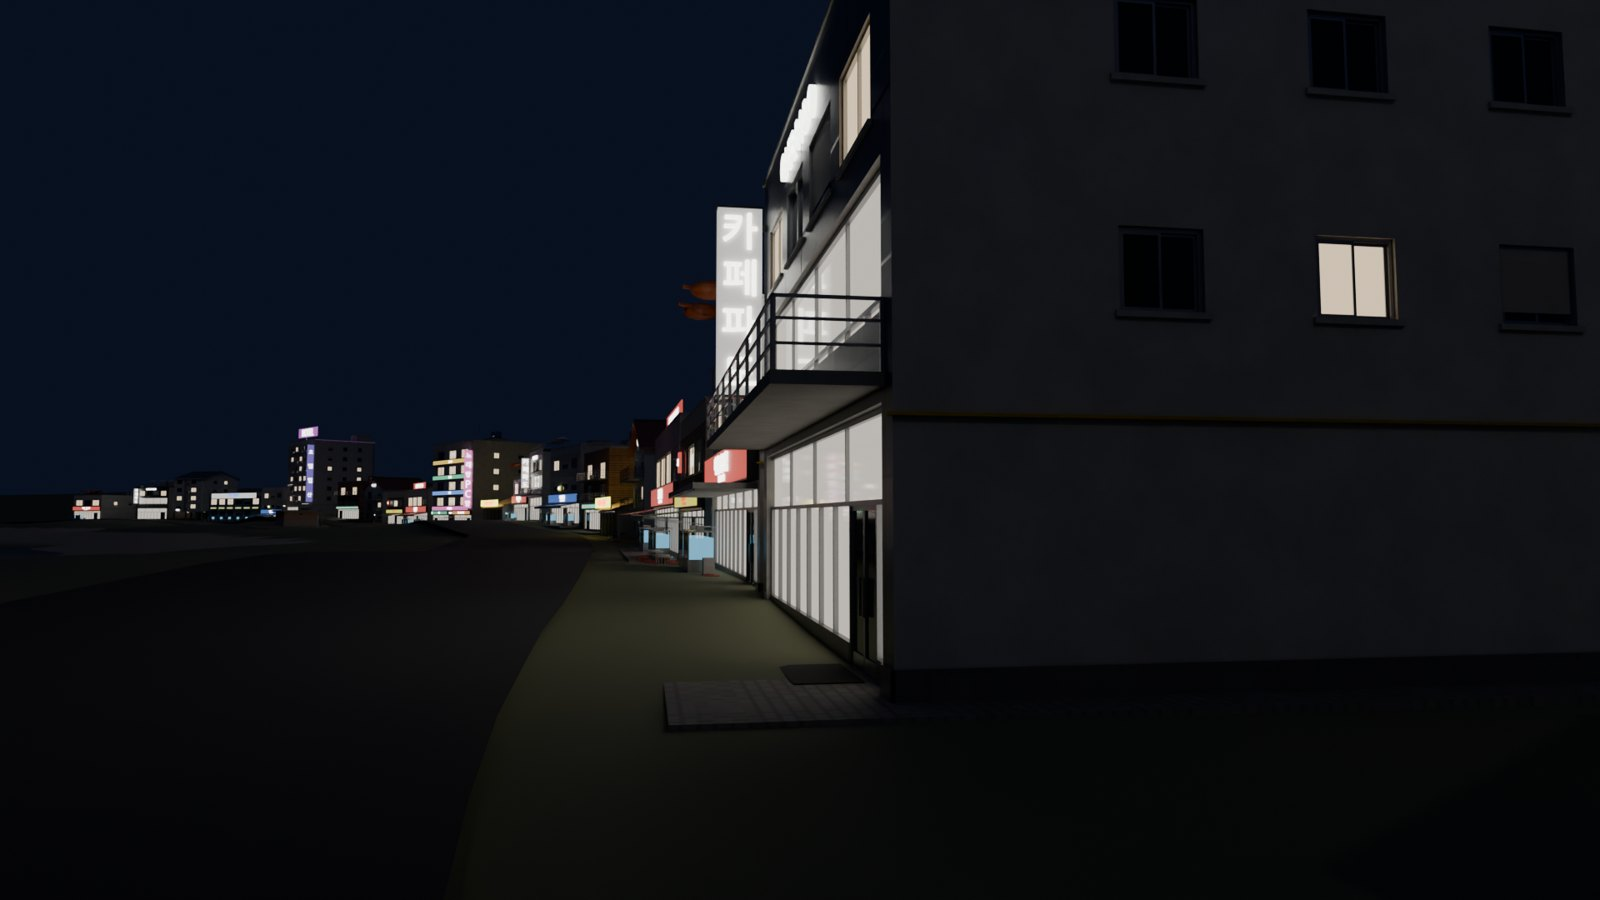
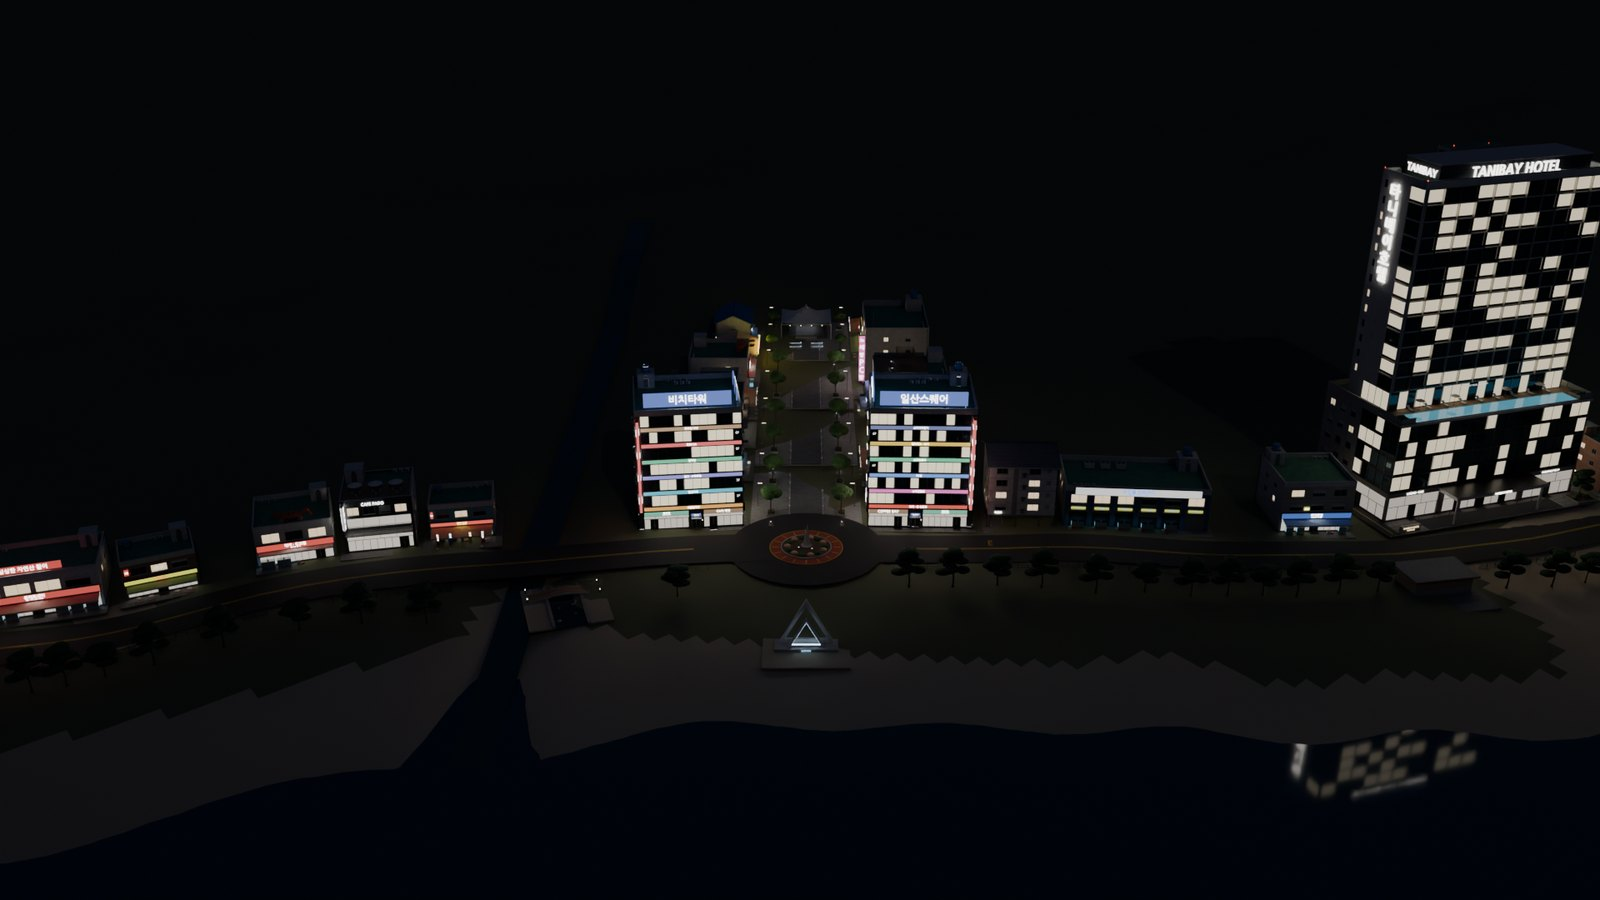
Refresh the layout overview renders for the plaza, hotel and stream
Claude-Session: https://claude.ai/code/session_01EaamM5u9qi3GythkVpiboJ

diff --git a/cs2_ilsan/README.md b/cs2_ilsan/README.md
@@ -136,9 +136,9 @@
 위 그림은 `preview_layout.py` 가 **하이트맵 + 배치표 + 내보낸 FBX 만으로** 다시 조립한 장면입니다
 (도로 · 노란 중앙선 · 회전교차로 고리 · 하천 물은 미리보기용으로 함께 그립니다).
 
-| 거리에서 | 밤 (Emissive 맵만으로 점등) |
+| 거리에서 (사진 ② 구도) | 밤 (Emissive 맵만으로 점등) |
 |---|---|
-| ![거리](docs/layout_street.jpg) | ![밤](docs/layout_night.jpg) |
+| ![거리](docs/real_02.jpg) | ![밤](docs/layout_night.jpg) |
 
 ## 3. 에셋 가져오기
 
